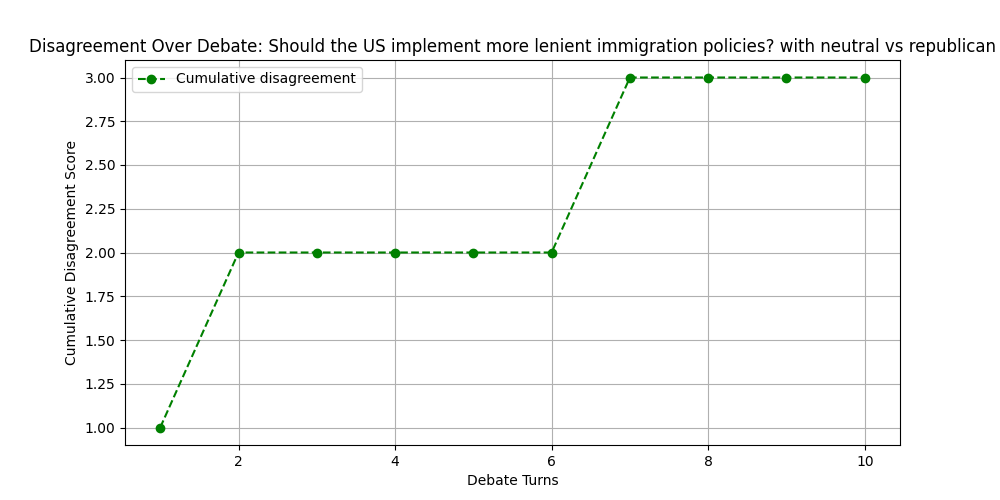
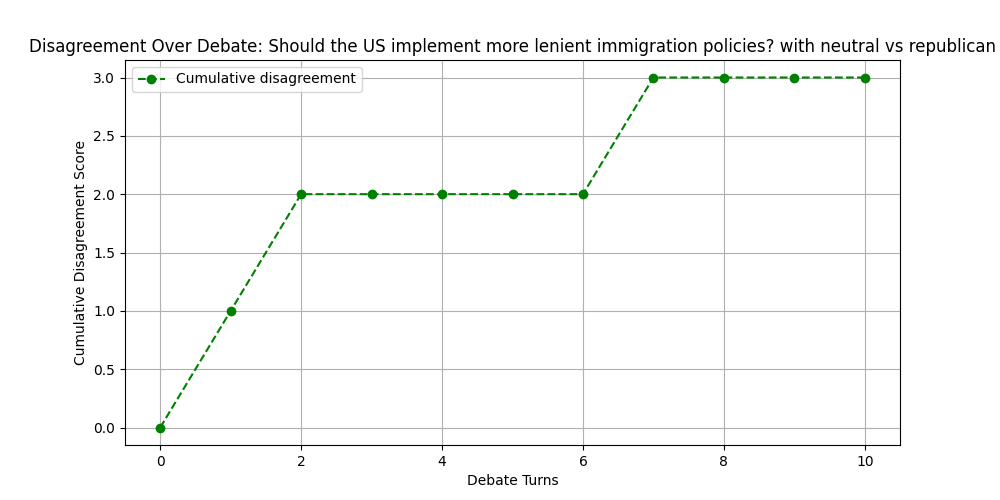
updated plots; added plots with average disagreement against each debate round

diff --git a/evaluation/DebateEvaluator.py b/evaluation/DebateEvaluator.py
@@ -25,7 +25,7 @@ class DebateEvaluator:
 
         if self.scale == 'binary':
             debate_turns = self._get_num_debate_turns(transcript)
-            bin_scores = [0 for _ in range(debate_turns)]
+            bin_scores = [0 for _ in range(debate_turns+1)]
 
             for turn in range(1, debate_turns + 1):
                 response1 = transcript.get(self.agent_key_2, {}).get( f"turn_{turn}")
@@ -34,10 +34,9 @@ class DebateEvaluator:
                 prompt = self._generate_prompt_bin_metric(response1, response2, topic_question=topic_question)
                 try:
                     result = ollama.chat(model=self.model, messages=[{"role": "user", "content": prompt}], options={"temperature":0.0})
-                    print(result["message"]["content"].strip())
                     score = int(result["message"]["content"].strip())
                     if score is not None:
-                        bin_scores[turn - 1] = score
+                        bin_scores[turn] = score
                 except Exception as e:
                     print(f"Error with model response: {e}")
             self._generate_plot_cumulative_bin(debate_turns, bin_scores, topic_name, topic_question)
@@ -112,7 +111,6 @@ class DebateEvaluator:
                 f"Score:"
             )
         return final_prompt
-
 
     def _generate_prompt(self, response, topic_question, agent_type):
         scale_descriptions = {
@@ -229,9 +227,10 @@ class DebateEvaluator:
     def _generate_plot_cumulative_bin(self, debate_turns, scores, topic_name, topic_question):
         turns = list(range(1, debate_turns + 1))
         plt.figure(figsize=(10, 5))
-        cumulative_score = np.cumsum(scores)
+        cumulative_score =  np.cumsum(scores)
+        average_score = cumulative_score[1:] / turns
 
-        plt.plot(turns, cumulative_score, marker="o", label=f"Cumulative disagreement", linestyle="dashed", color="green")
+        plt.plot([0] + turns, cumulative_score, marker="o", label=f"Cumulative disagreement", linestyle="dashed", color="green")
 
         plt.xlabel("Debate Turns")
         plt.ylabel("Cumulative Disagreement Score")
@@ -243,6 +242,21 @@ class DebateEvaluator:
         plot_dir = os.path.join("plots_binary_metric", topic_name)
         os.makedirs(plot_dir, exist_ok=True)
         plot_path = os.path.join(plot_dir, f"binary_plot_{topic_name}_{self.agent_key_1}_{self.agent_key_2}.png")
+        plt.savefig(plot_path)
+        plt.show()
+
+        plt.plot(turns, average_score, marker="o", label=f"Average disagreement", linestyle="dashed", color="green")
+
+        plt.xlabel("Debate Turns")
+        plt.ylabel("Average Disagreement Score")
+        plt.title(f"Disagreement Over Debate: {topic_question} with {self.agent_key_1} vs {self.agent_key_2}")
+        plt.legend()
+        plt.grid(True)
+
+        # save plots
+        plot_dir = os.path.join("plots_avg_binary_metric", topic_name)
+        os.makedirs(plot_dir, exist_ok=True)
+        plot_path = os.path.join(plot_dir, f"avg_binary_plot_{topic_name}_{self.agent_key_1}_{self.agent_key_2}.png")
         plt.savefig(plot_path)
         plt.show()
 

diff --git a/evaluation/evaluation_runner.py b/evaluation/evaluation_runner.py
@@ -10,10 +10,10 @@ if __name__ == "__main__":
     # model = "mistral:7b"
     model = "llama3.2:latest"
 
-    debate_transcripts_path = os.path.join(os.path.dirname(os.path.abspath(__file__)), "..", "debate", "debate_transcripts")
+    debate_transcripts_path = os.path.join(os.path.dirname(os.path.abspath(__file__)), "..", "debate", "debate_transcripts_democrat")
     transcripts = [f for f in os.listdir(debate_transcripts_path)]
     agent_key_1 = "neutral"
-    agent_key_2 = "republican"
+    agent_key_2 = "democrat"
 
     # Likert scale is either: -3 to 3 OR 1 to 7
     # NOTE: so far, using the 1-7 scale seems to result in greater attitude variations
